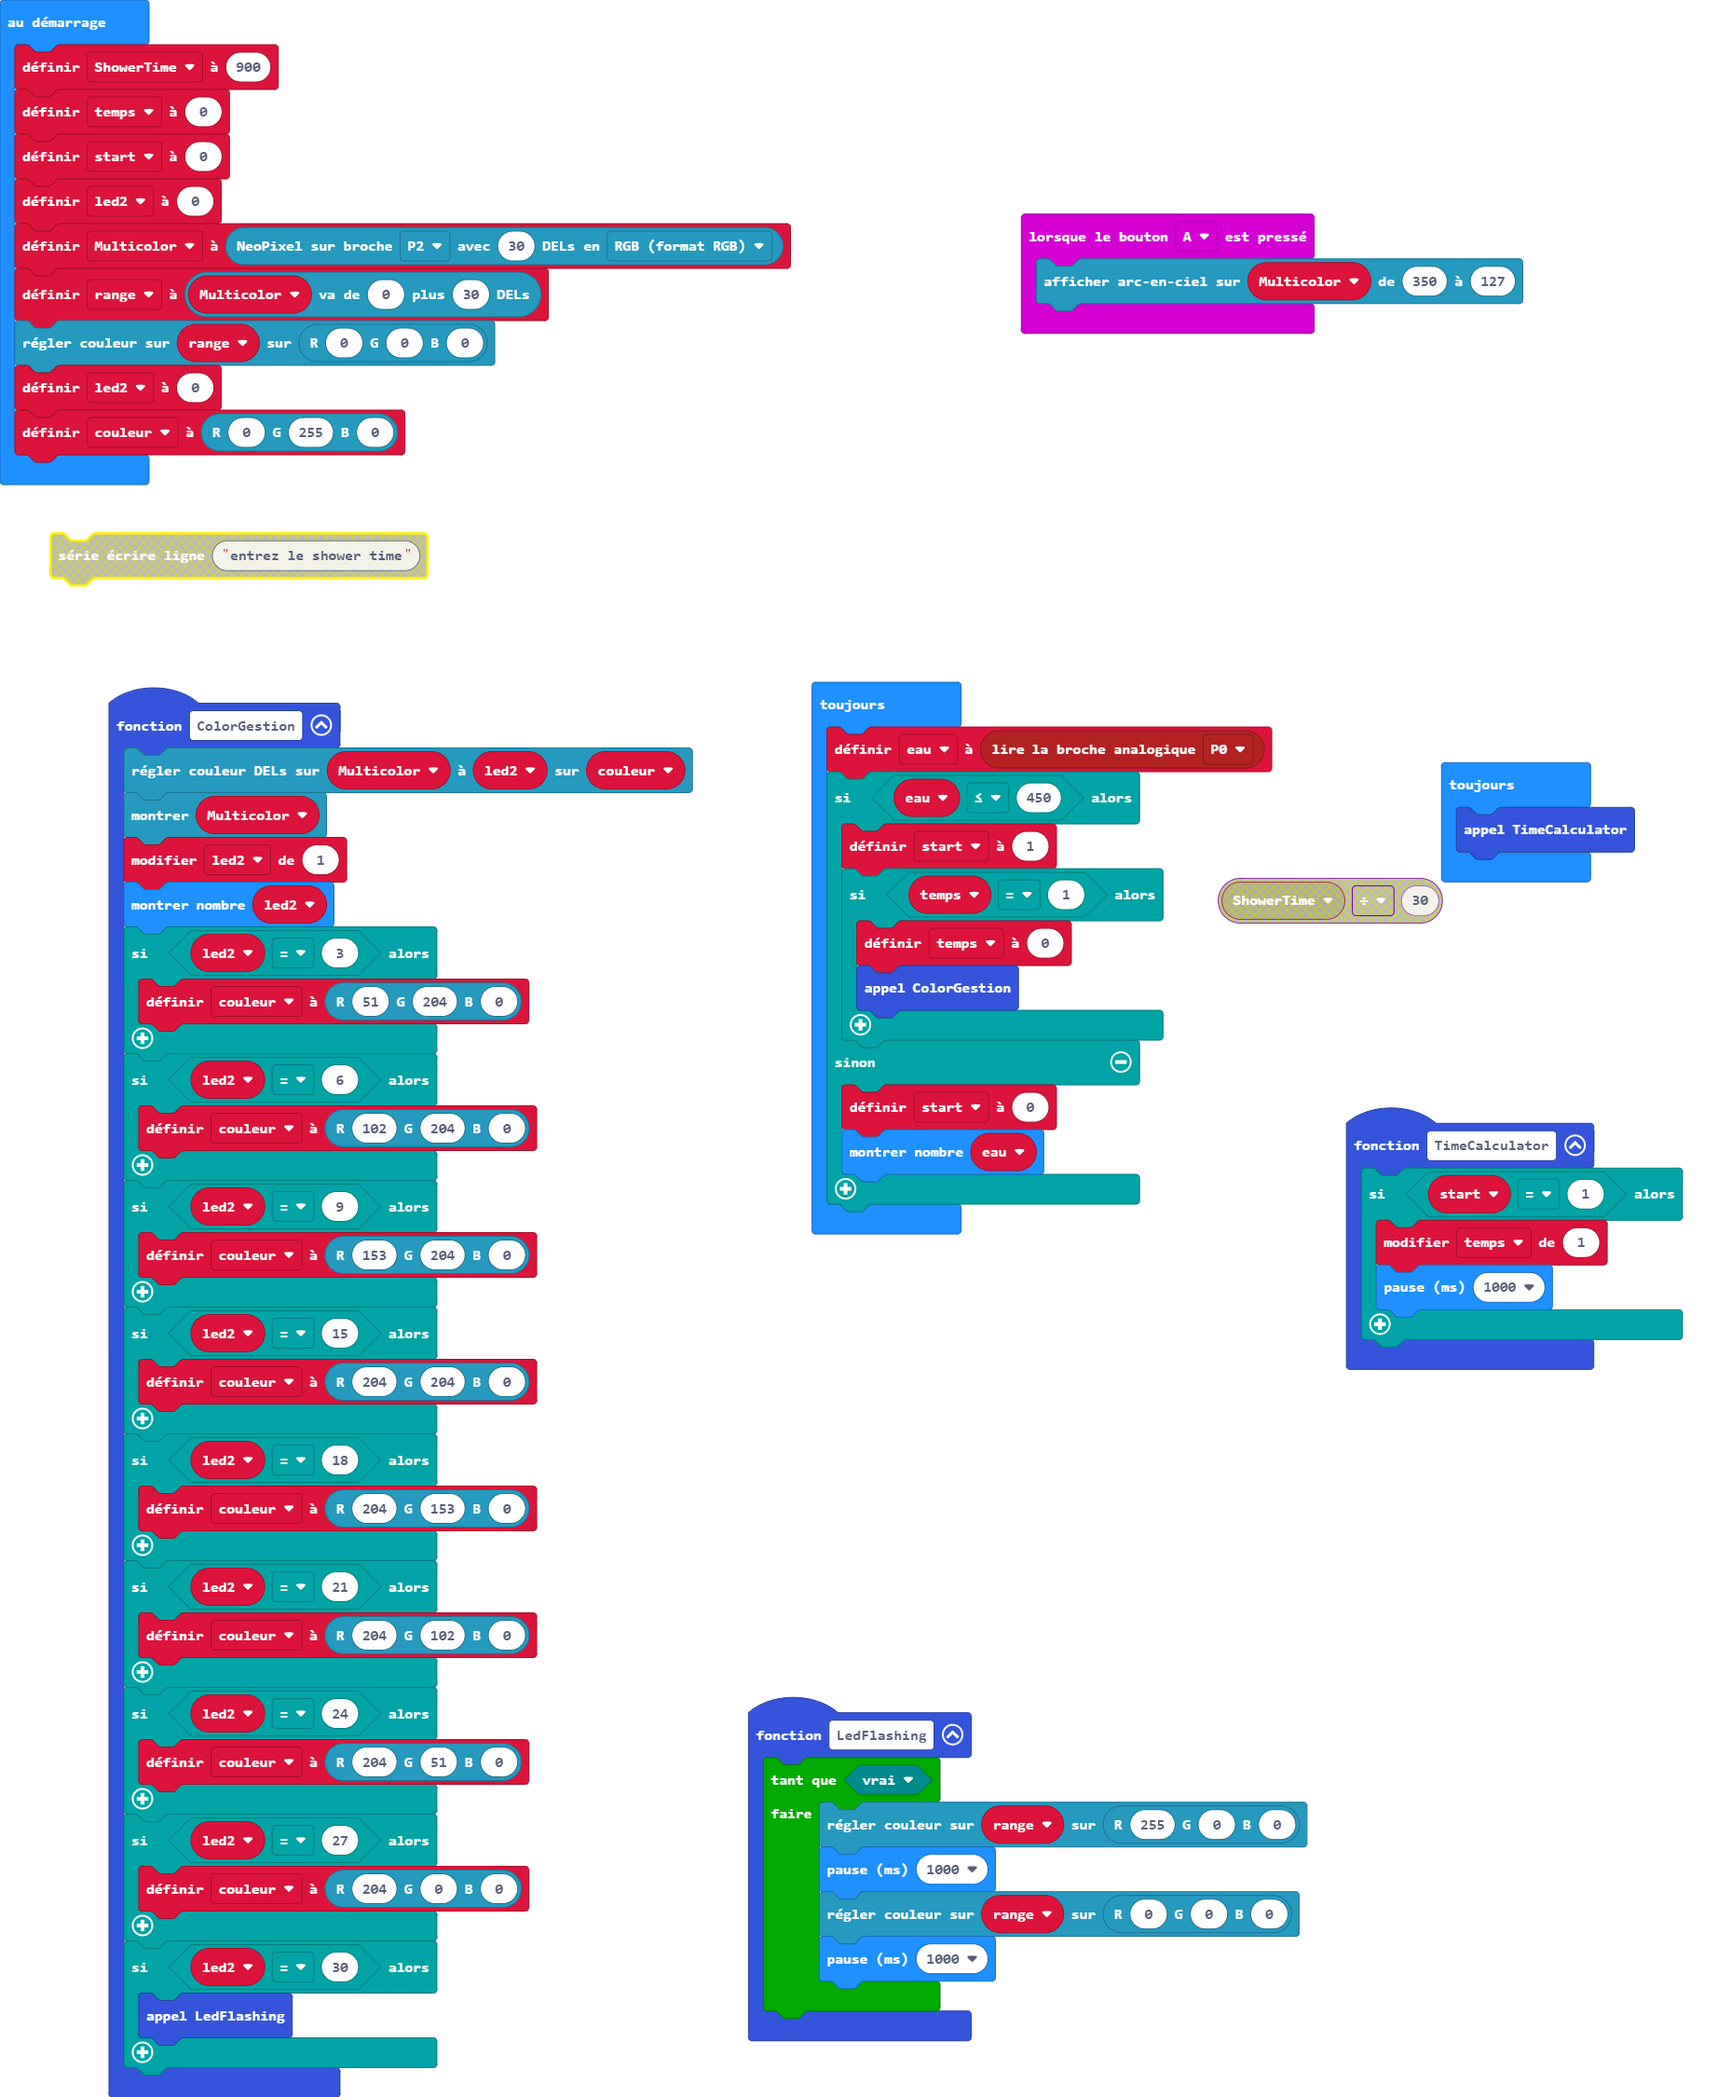
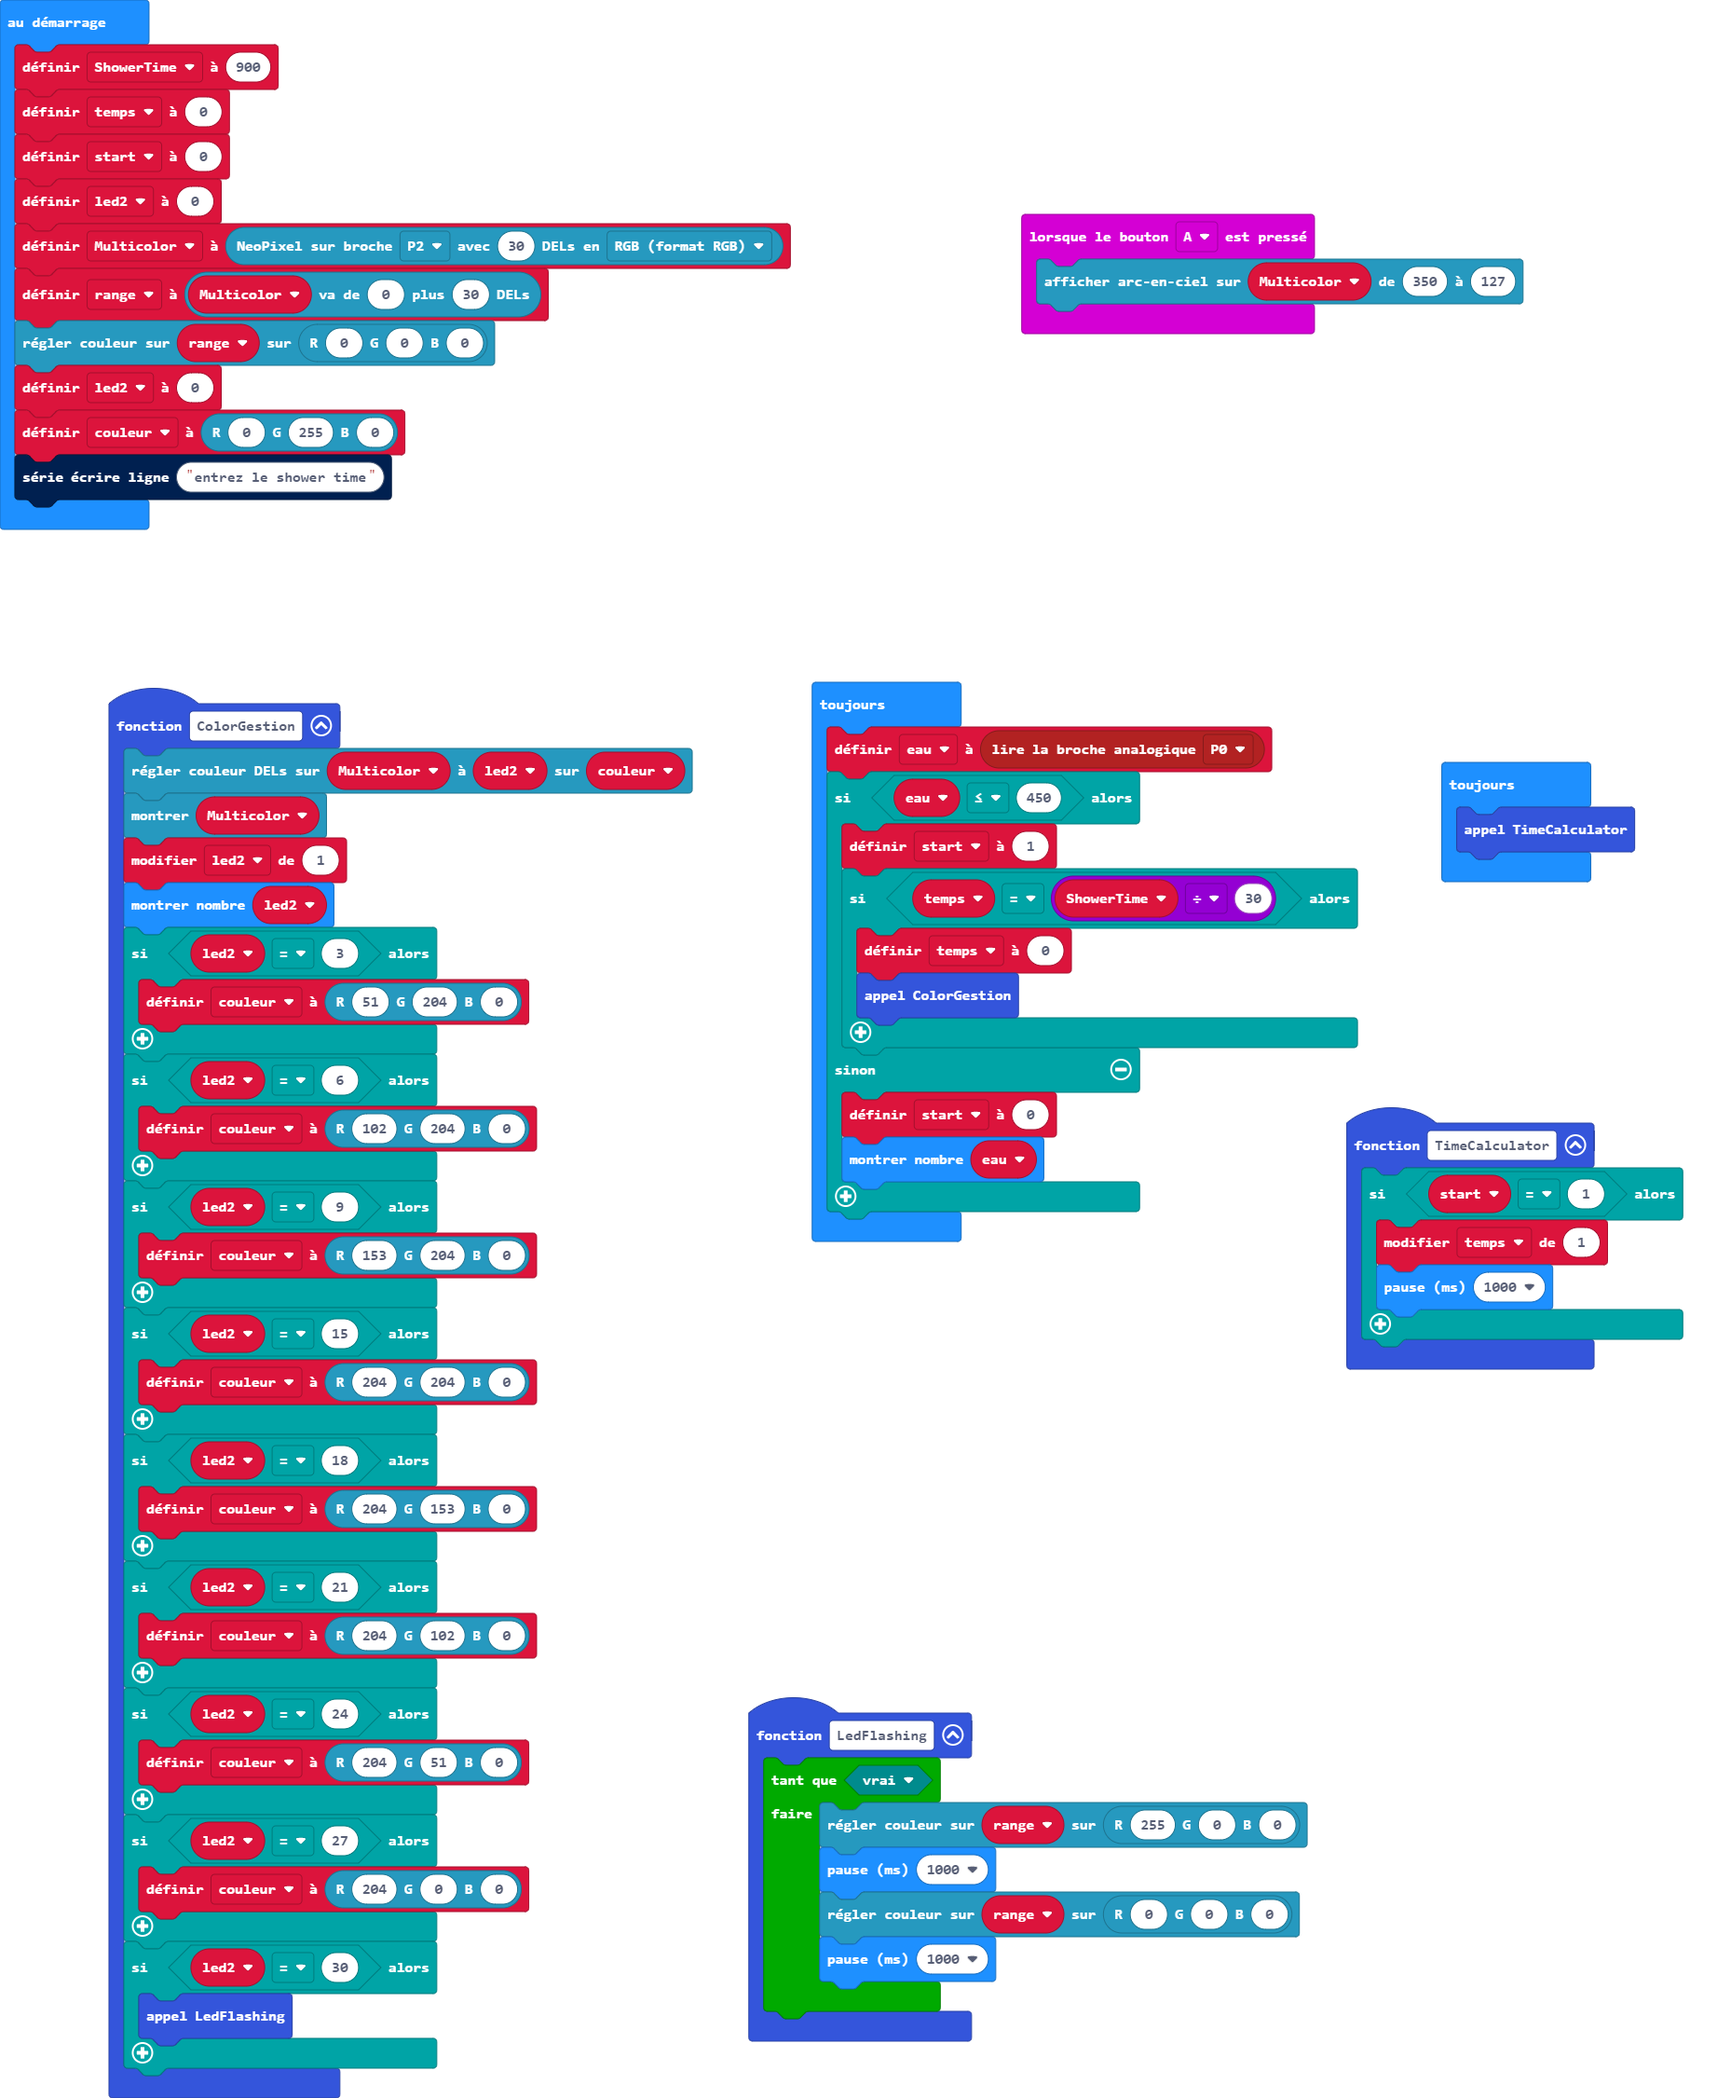
Mise à jour pxt.json, main.blocks, main.ts

diff --git a/main.ts b/main.ts
@@ -63,11 +63,12 @@ range = Multicolor.range(0, 30)
 range.showColor(neopixel.rgb(0, 0, 0))
 led2 = 0
 couleur = neopixel.rgb(0, 255, 0)
+serial.writeLine("entrez le shower time")
 basic.forever(function () {
     eau = pins.analogReadPin(AnalogPin.P0)
     if (eau <= 450) {
         start = 1
-        if (temps == 1) {
+        if (temps == ShowerTime / 30) {
             temps = 0
             ColorGestion()
         }
